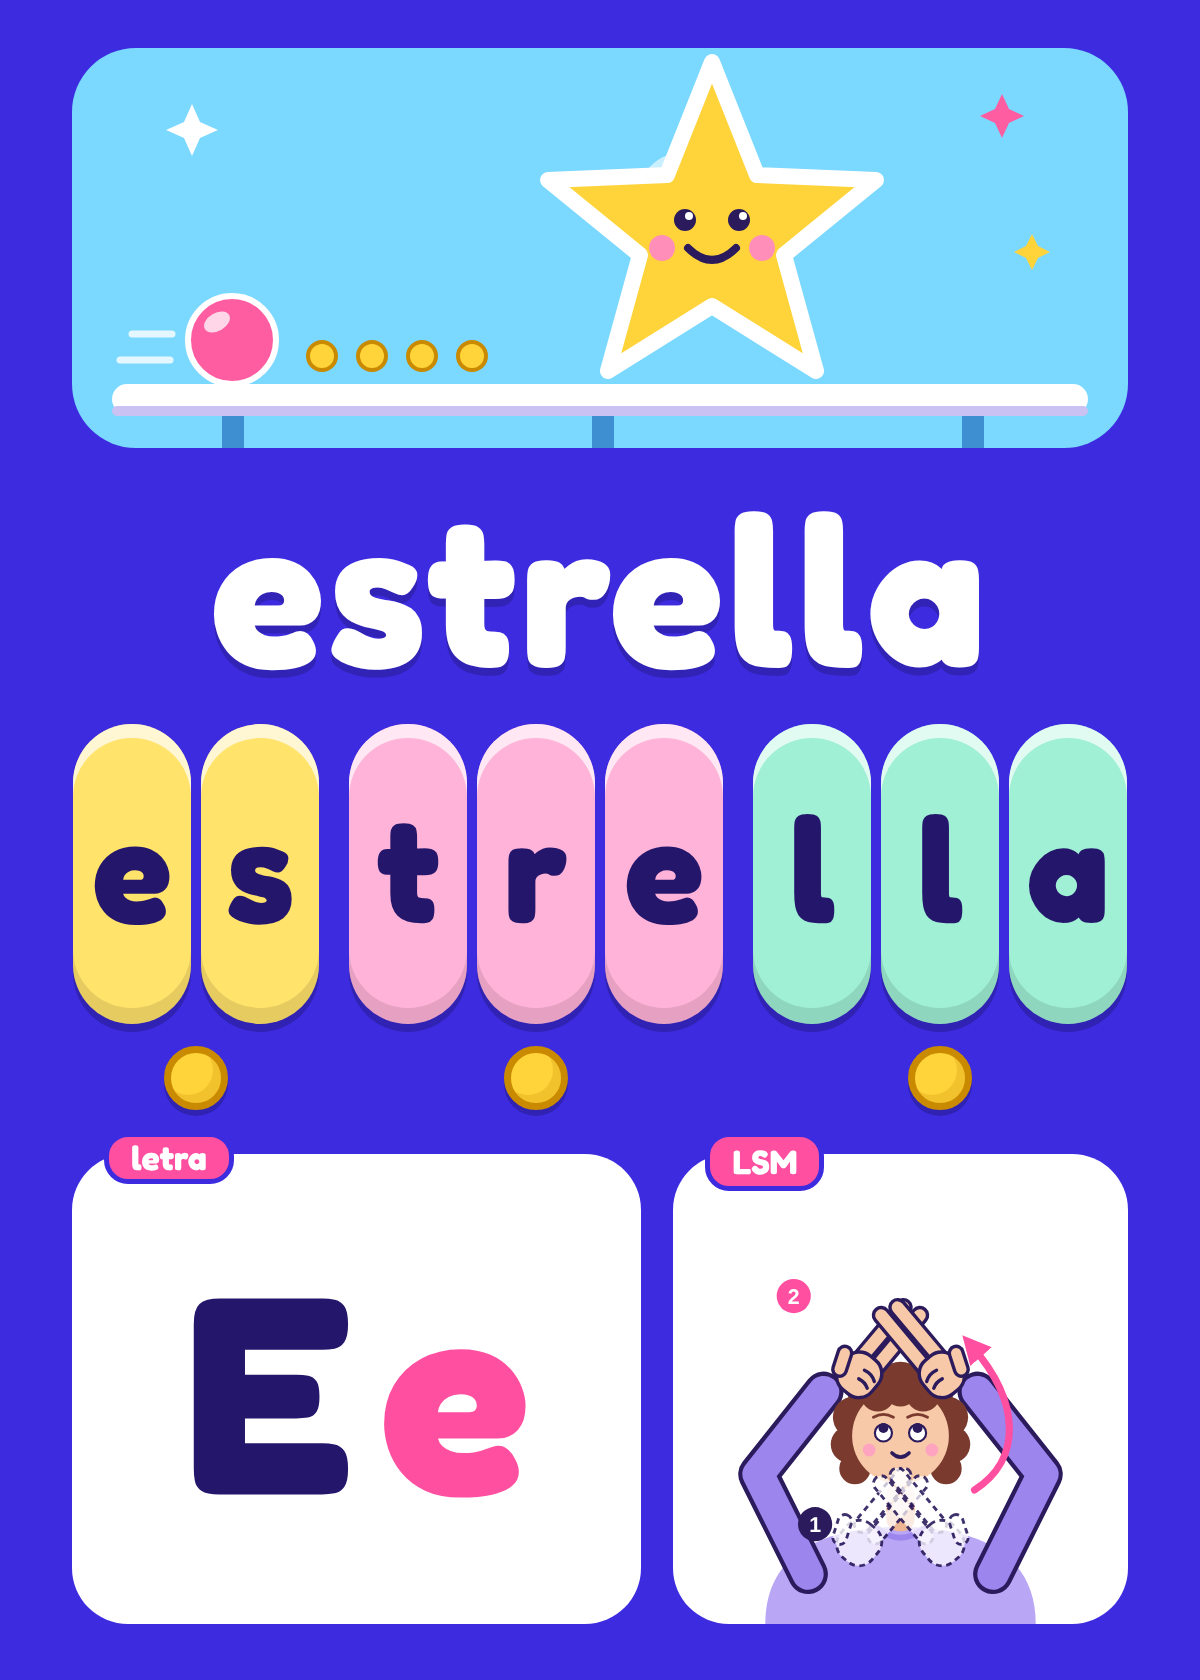
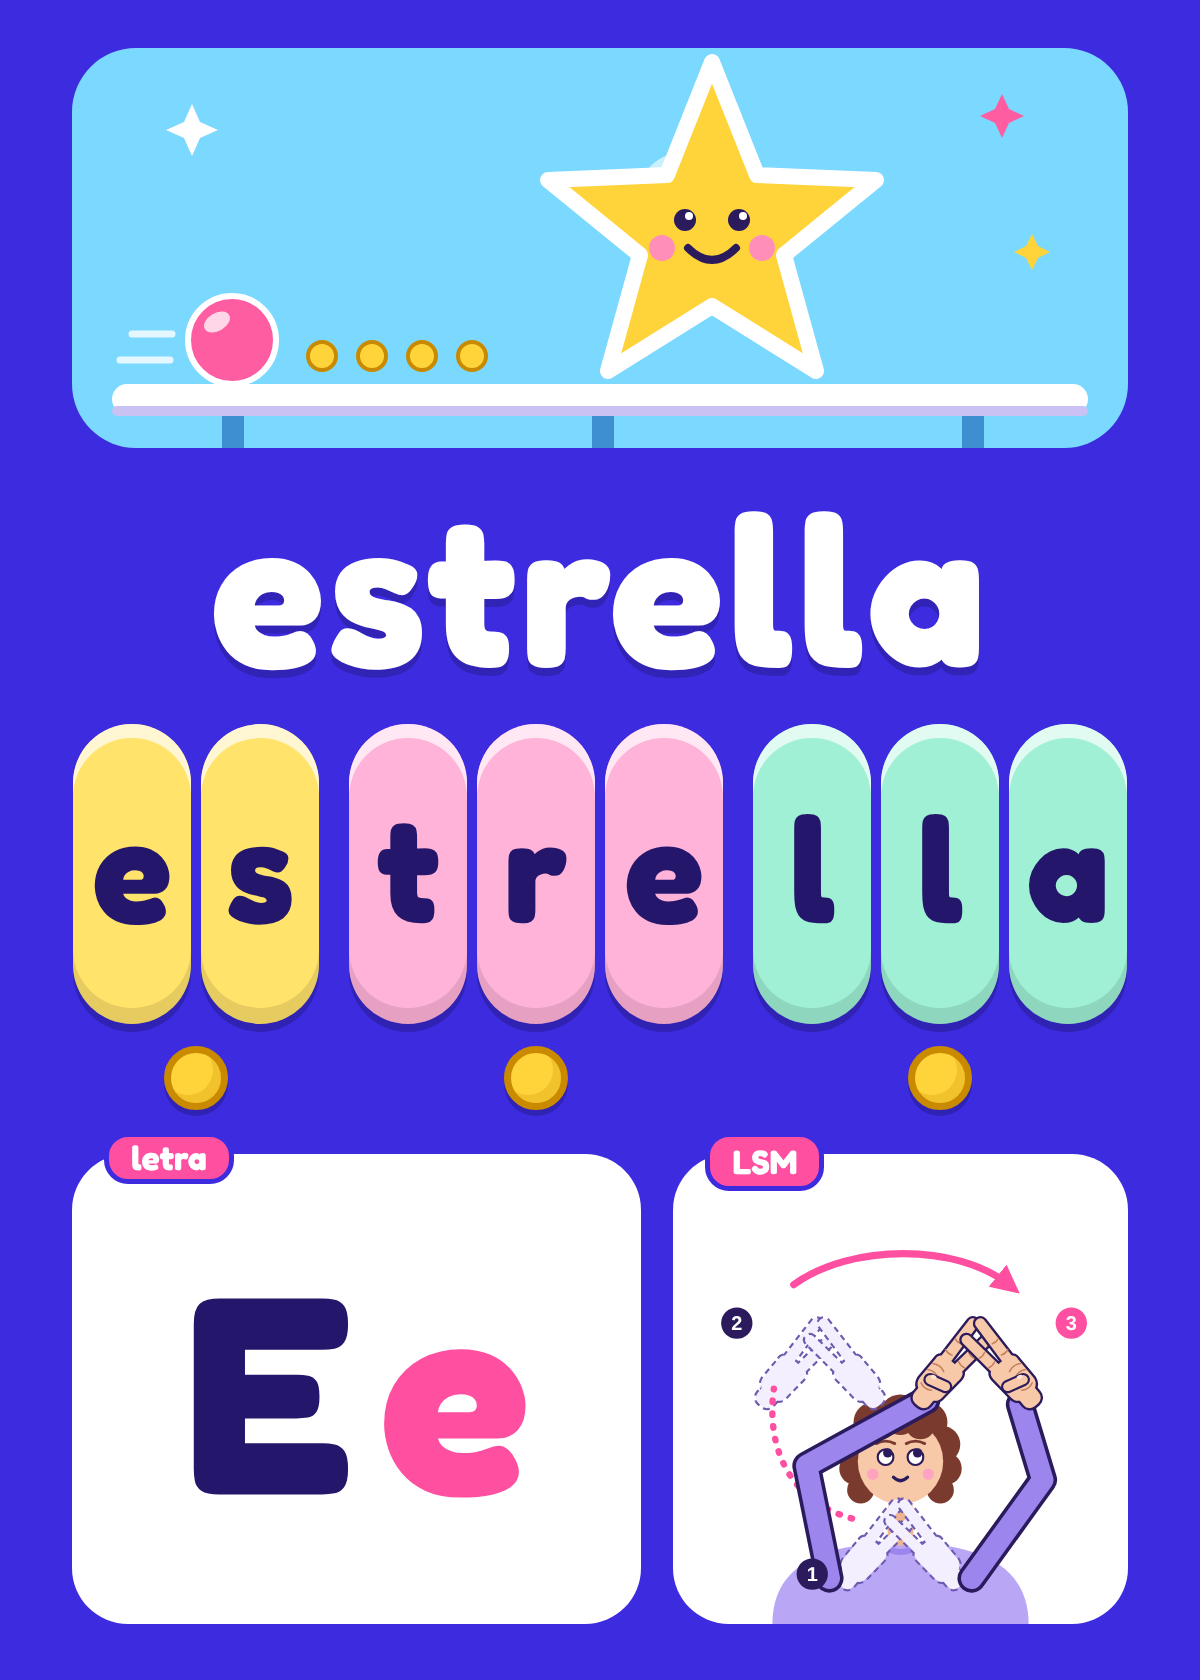
Seña estrella: recorrido en arco por encima de la cabeza y manos más humanas
Claude-Session: https://claude.ai/code/session_015Bpbc8EAm3Wz5jihEE32WP

Changed region(s): [[0.5858, 0.7429, 0.8942, 0.9595], [0.8633, 0.7738, 0.925, 0.8048]]

diff --git a/CLAUDE.md b/CLAUDE.md
@@ -46,7 +46,7 @@ Este repositorio guarda tarjetas para que Valeria aprenda el **código escrito**
 7. **Panel "letra"**: la letra inicial en mayúscula y en minúscula, grande, para que reconozca la letra.
 8. **Panel "LSM"**: pequeño, abajo a la derecha. **No inventes la forma de una seña**: dibújala solo a partir de las fotos o dibujos que mande el usuario (normalmente una foto por movimiento). Si no hay referencia, deja `"sena"` fuera del JSON y aparece "seña pendiente".
    - Dibújala en SVG como `senas/<palabra>.svg` (viewBox 600 × 540), con el estilo de `senas/estrella.svg`: persona tierna con cabello rizado, ropa lila, cara sonriente y manos color piel con contorno oscuro.
-   - Si la seña tiene varios movimientos, usa una sola figura: la posición inicial con manos **punteadas** y el número **1**, la final con manos **sólidas** y el número **2**, y una **flecha rosa** con el recorrido. La mirada y la expresión van como en la foto (en "estrella" mira hacia arriba).
+   - Si la seña tiene varios movimientos, usa una sola figura: la posición inicial con manos **punteadas** y el número **1**, la final con manos **sólidas** y el número **2**, y una **flecha rosa** con el recorrido. La mirada y la expresión van como en la foto (en "estrella" mira hacia arriba). Si el recorrido pasa por varios puntos, numera cada posición (1, 2, 3); solo la final va sólida y con brazos.
    - Cuida la configuración: qué dedos van extendidos o doblados, dónde va el pulgar, la altura de las manos (barbilla, frente, arriba de la cabeza) y si las manos se cruzan o se tocan. Muestra el dibujo al usuario y pregúntale si la configuración es correcta, porque él conoce LSM.
 9. **Nada de personajes con derechos de autor** (Pepa Pig, Roblox, logos de TikTok, etc.). Usa solo su *estilo*: personajes redondos y simpáticos, colores alegres, bloques o elementos de juego.
 10. Caras siempre sonrientes y amables, y ojos con brillo. Nada que asuste o sea agresivo. Tamaño 1200 × 1680 px.
